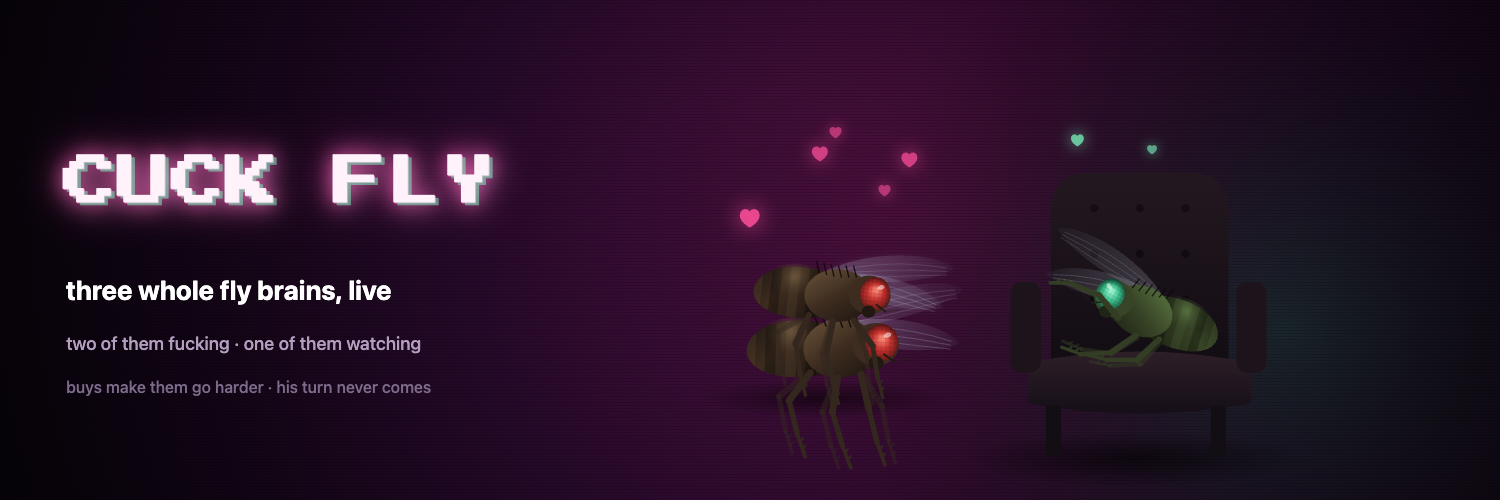
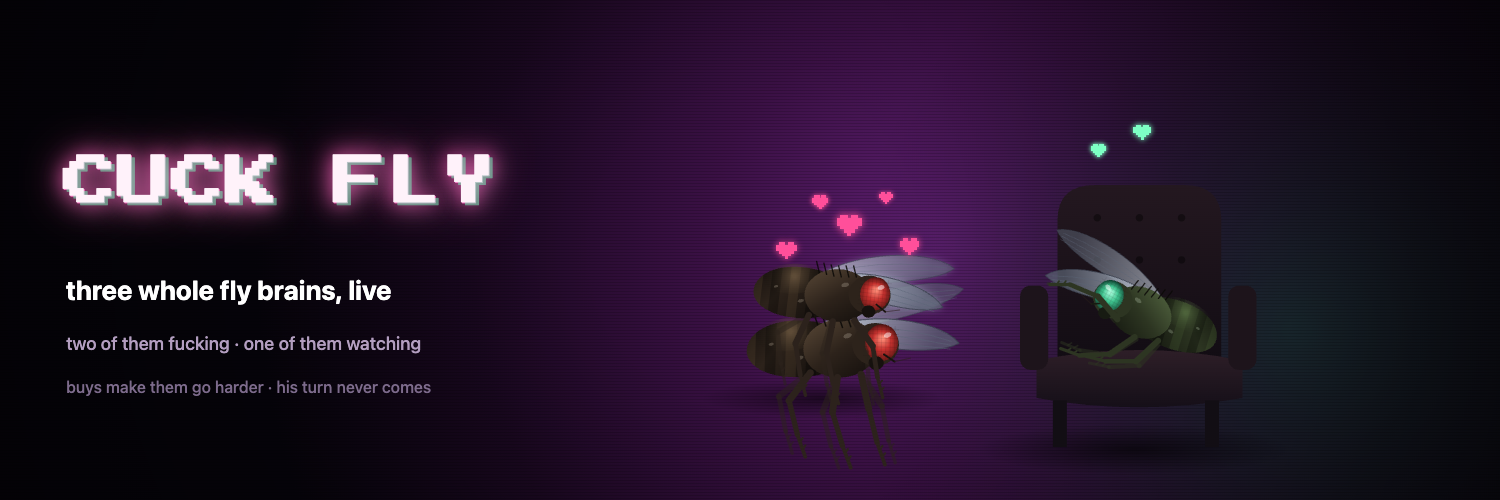
Graphics: match the SEX FLY visual language
Their avatar is a 3D-look render: matte near-black cuticle, opaque swept
silver wings, red compound eyes, 8-bit pixel hearts, violet radial ground.
Ported all of that into the shared fly renderer — pixel hearts replace the
glyph hearts on the site too — and reframed the avatar the way theirs is
framed: the couple filling the frame, with the one watching left as a
silhouette and a green eye in the corner.

Changed region(s): [[0.4907, 0.18, 0.7973, 0.87]]

diff --git a/tools/banner.html b/tools/banner.html
@@ -22,10 +22,11 @@ var TAU = 6.2831853;
 function bg(ctx, W, H, tilt) {
   ctx.fillStyle = '#05030a';
   ctx.fillRect(0, 0, W, H);
-  var g = ctx.createRadialGradient(W * 0.62, H * 0.42, 10, W * 0.62, H * 0.42, W * 0.72);
-  g.addColorStop(0, '#4a0f3c');
-  g.addColorStop(0.42, '#2a0a2e');
-  g.addColorStop(1, '#05030a');
+  var g = ctx.createRadialGradient(W * 0.63, H * 0.50, 8, W * 0.63, H * 0.52, W * 0.46);
+  g.addColorStop(0, '#5f1f72');
+  g.addColorStop(0.34, '#3a1044');
+  g.addColorStop(0.68, '#1a0820');
+  g.addColorStop(1, '#07040c');
   ctx.fillStyle = g; ctx.fillRect(0, 0, W, H);
   /* cold pool where the chair sits */
   var c = ctx.createRadialGradient(W * 0.86, H * 0.66, 6, W * 0.86, H * 0.66, W * 0.3);
@@ -42,21 +43,13 @@ function bg(ctx, W, H, tilt) {
   for (var y = 0; y < H; y += 3) ctx.fillRect(0, y, W, 1);
 }
 
+/* three pixel hearts in a loose arc, the way theirs sit over the couple */
 function hearts(ctx, x, y, s, n, col) {
-  ctx.save();
-  ctx.textAlign = 'center';
-  for (var i = 0; i < n; i++) {
-    var a = (i / n) * TAU + 0.7;
-    var hx = x + Math.cos(a) * s * (0.5 + (i % 3) * 0.25);
-    var hy = y - Math.abs(Math.sin(a)) * s * 0.9 - i * s * 0.1;
-    var sz = s * (0.16 + (i % 3) * 0.05);
-    ctx.font = sz + 'px system-ui, sans-serif';
-    ctx.shadowColor = col; ctx.shadowBlur = sz * 0.9;
-    ctx.fillStyle = col;
-    ctx.globalAlpha = 0.55 + (i % 3) * 0.15;
-    ctx.fillText('♥', hx, hy);
+  var lay = [[-0.62, 0.10, 0.030], [0.02, -0.16, 0.036], [0.64, 0.06, 0.028],
+             [-0.28, -0.40, 0.022], [0.40, -0.44, 0.020]];
+  for (var i = 0; i < n && i < lay.length; i++) {
+    FlyArt.pixelHeart(ctx, x + lay[i][0] * s, y + lay[i][1] * s, Math.max(1, s * lay[i][2]), col, true);
   }
-  ctx.restore();
 }
 
 /* couple + chair, positioned inside a box */
@@ -69,11 +62,11 @@ function scene(ctx, cx, cy, s, opts) {
     x: cx - s * 0.02, y: cy - s * 0.55, s: s * 0.9, phase: 1.9,
     tilt: 0.12, legLift: 0.55, wingBeat: 1.1
   });
-  hearts(ctx, cx + s * 0.15, cy - s * 1.0, s, 5, '#ff4f9a');
+  hearts(ctx, cx + s * 0.15, cy - s * 1.12, s, 5, '#ff4f9a');
 
   /* the chair, to the right */
   if (opts.chair !== false) {
-    var ox = cx + s * (opts.gap || 2.5), oy = cy + s * 0.08, cs = s * 1.3;
+    var ox = cx + s * (opts.gap || 2.5), oy = cy + s * 0.06, cs = s * 1.2;
     FlyArt.shadow(ctx, ox, oy + cs * 0.8, cs * 1.35, cs * 0.22, 0.6);
     FlyArt.drawChair(ctx, ox, oy, cs, 'rgba(125,255,196,.3)');
     FlyArt.drawFly(ctx, {
@@ -81,7 +74,7 @@ function scene(ctx, cx, cy, s, opts) {
       phase: 2.2, seated: 1, tilt: 0.3, headTilt: -0.2, tint: 0.6, flip: true
     });
     /* one green heart, cracked down the middle */
-    hearts(ctx, ox - cs * 0.1, oy - cs * 1.25, s * 0.8, 2, '#7dffc4');
+    hearts(ctx, ox + cs * 0.05, oy - cs * 1.82, s * 0.7, 2, '#7dffc4');
   }
 }
 
@@ -139,20 +132,40 @@ function drawOg() {
 
 function drawPfp() {
   var cv = document.getElementById('pfp'), ctx = cv.getContext('2d'), W = cv.width, H = cv.height;
+  /* violet ground, same family as the couple's own avatar */
   ctx.fillStyle = '#07040c'; ctx.fillRect(0, 0, W, H);
-  var g = ctx.createRadialGradient(W * 0.5, H * 0.45, 8, W * 0.5, H * 0.5, W * 0.7);
-  g.addColorStop(0, '#123a30'); g.addColorStop(0.5, '#16092a'); g.addColorStop(1, '#07040c');
+  var g = ctx.createRadialGradient(W * 0.46, H * 0.42, 8, W * 0.5, H * 0.5, W * 0.78);
+  g.addColorStop(0, '#7a2c93'); g.addColorStop(0.34, '#4c1557');
+  g.addColorStop(0.7, '#200a28'); g.addColorStop(1, '#07040c');
   ctx.fillStyle = g; ctx.fillRect(0, 0, W, H);
-  var s = H * 0.235, cs = s * 1.45;
-  FlyArt.shadow(ctx, W * 0.5, H * 0.60 + cs * 0.82, cs * 1.3, cs * 0.22, 0.6);
-  FlyArt.drawChair(ctx, W * 0.5, H * 0.60, cs, 'rgba(125,255,196,.35)');
+
+  /* the couple, big and cropped, exactly the framing of theirs */
+  var s = H * 0.30, gx = W * 0.40, gy = H * 0.62;
+  FlyArt.shadow(ctx, gx - s * 0.1, gy + s * 0.52, s * 1.2, s * 0.2, 0.5);
+  FlyArt.drawFly(ctx, { x: gx, y: gy, s: s, phase: 0.6, tilt: 0.03 });
   FlyArt.drawFly(ctx, {
-    x: W * 0.5 + cs * 0.12, y: H * 0.60 - cs * 0.36, s: s,
+    x: gx - s * 0.03, y: gy - s * 0.56, s: s * 0.9, phase: 1.9,
+    tilt: 0.12, legLift: 0.55, wingBeat: 1.1
+  });
+  hearts(ctx, gx + s * 0.1, gy - s * 1.24, s, 3, '#ff4f9a');
+
+  /* and the one watching: in the near corner, in shadow, green-eyed */
+  var cs = s * 0.82, cx = W * 0.90, cy = H * 0.94;
+  ctx.save();
+  ctx.globalAlpha = 0.5;                       /* the chair stays in the dark */
+  FlyArt.drawChair(ctx, cx, cy, cs, null);
+  ctx.restore();
+  var hg = ctx.createRadialGradient(cx - cs * 0.35, cy - cs * 0.45, 2, cx - cs * 0.35, cy - cs * 0.45, cs * 1.1);
+  hg.addColorStop(0, 'rgba(90,255,190,.3)'); hg.addColorStop(1, 'rgba(90,255,190,0)');
+  ctx.fillStyle = hg; ctx.fillRect(0, 0, W, H);
+  FlyArt.drawFly(ctx, {
+    x: cx + cs * 0.06, y: cy - cs * 0.36, s: s * 0.54,
     phase: 2.2, seated: 1, tilt: 0.3, headTilt: -0.22, tint: 0.6, flip: true
   });
-  /* vignette so the eye is the brightest thing in the circle */
-  var vg = ctx.createRadialGradient(W / 2, H / 2, H * 0.22, W / 2, H / 2, H * 0.62);
-  vg.addColorStop(0, 'rgba(0,0,0,0)'); vg.addColorStop(1, 'rgba(0,0,0,.8)');
+
+  /* vignette, so the two red eyes and the one green eye are what survives at 48px */
+  var vg = ctx.createRadialGradient(W / 2, H / 2, H * 0.26, W / 2, H / 2, H * 0.66);
+  vg.addColorStop(0, 'rgba(0,0,0,0)'); vg.addColorStop(1, 'rgba(0,0,0,.72)');
   ctx.fillStyle = vg; ctx.fillRect(0, 0, W, H);
   post('pfp', cv);
 }

diff --git a/js/flyart.js b/js/flyart.js
@@ -36,10 +36,10 @@
   function wing(ctx, x, y, s, ang, len, alpha, blur) {
     ctx.save();
     ctx.translate(x, y); ctx.rotate(ang);
-    var g = ctx.createLinearGradient(0, 0, len * s, 0);
-    g.addColorStop(0, 'rgba(208,216,230,' + (0.30 * alpha) + ')');
-    g.addColorStop(0.55, 'rgba(176,188,208,' + (0.17 * alpha) + ')');
-    g.addColorStop(1, 'rgba(150,164,190,' + (0.06 * alpha) + ')');
+    var g = ctx.createLinearGradient(0, -0.2 * s, len * s * 0.8, 0.12 * s);
+    g.addColorStop(0, 'rgba(206,212,222,' + (0.9 * alpha) + ')');
+    g.addColorStop(0.5, 'rgba(146,154,168,' + (0.82 * alpha) + ')');
+    g.addColorStop(1, 'rgba(92,100,116,' + (0.7 * alpha) + ')');
     ctx.fillStyle = g;
     ctx.beginPath();
     ctx.moveTo(0, 0);
@@ -49,8 +49,11 @@
     if (blur) { ctx.shadowColor = 'rgba(200,214,240,.45)'; ctx.shadowBlur = 7; }
     ctx.fill();
     ctx.shadowBlur = 0;
-    ctx.strokeStyle = 'rgba(226,234,248,' + (0.18 * alpha) + ')';
-    ctx.lineWidth = Math.max(0.5, s * 0.011);
+    ctx.strokeStyle = 'rgba(58,64,78,' + (0.75 * alpha) + ')';
+    ctx.lineWidth = Math.max(0.6, s * 0.012);
+    ctx.stroke();
+    ctx.strokeStyle = 'rgba(90,100,118,' + (0.5 * alpha) + ')';
+    ctx.lineWidth = Math.max(0.5, s * 0.009);
     for (var v = 0; v < 3; v++) {
       ctx.beginPath();
       ctx.moveTo(len * s * 0.06, -0.004 * s + v * 0.026 * s);
@@ -75,10 +78,10 @@
     ctx.scale(flip, 1);
 
     var hue = 24 + tint * 100;
-    var dark = 'hsl(' + hue + ',' + (30 - tint * 6) + '%,' + (10 + tint * 3) + '%)';
-    var mid = 'hsl(' + (hue + 2) + ',' + (32 - tint * 6) + '%,' + (18 + tint * 5) + '%)';
-    var lite = 'hsl(' + (hue + 6) + ',' + (30 - tint * 4) + '%,' + (30 + tint * 7) + '%)';
-    var legc = 'hsl(' + hue + ',26%,' + (16 + tint * 5) + '%)';
+    var dark = 'hsl(' + hue + ',' + (24 - tint * 4) + '%,' + (7 + tint * 3) + '%)';
+    var mid = 'hsl(' + (hue + 2) + ',' + (25 - tint * 4) + '%,' + (14 + tint * 5) + '%)';
+    var lite = 'hsl(' + (hue + 6) + ',' + (24 - tint * 3) + '%,' + (26 + tint * 7) + '%)';
+    var legc = 'hsl(' + hue + ',22%,' + (14 + tint * 5) + '%)';
 
     /* ---------- far legs ---------- */
     ctx.globalAlpha = alpha * 0.5;
@@ -121,11 +124,26 @@
     ctx.fillStyle = sh;
     ctx.beginPath(); ctx.ellipse(-0.44 * s, -0.15 * s, 0.36 * s, 0.17 * s, -0.15, 0, TAU); ctx.fill();
 
+    /* light patches on the cuticle, like the specular marks on the render */
+    ctx.globalAlpha = alpha * 0.34;
+    ctx.fillStyle = 'hsl(' + (hue + 12) + ',14%,' + (58 + tint * 8) + '%)';
+    var spots = [[-0.33, 0.09, 0.035, 0.019], [-0.63, -0.04, 0.026, 0.015], [-0.16, 0.17, 0.022, 0.013]];
+    for (var sp = 0; sp < spots.length; sp++) {
+      ctx.beginPath();
+      ctx.ellipse(spots[sp][0] * s, spots[sp][1] * s, spots[sp][2] * s, spots[sp][3] * s, -0.3, 0, TAU);
+      ctx.fill();
+    }
+    ctx.globalAlpha = alpha;
+
     /* ---------- thorax ---------- */
     var tg = ctx.createLinearGradient(-0.1 * s, -0.36 * s, 0.36 * s, 0.26 * s);
     tg.addColorStop(0, lite); tg.addColorStop(0.5, mid); tg.addColorStop(1, dark);
     ctx.fillStyle = tg;
     ctx.beginPath(); ctx.ellipse(0.08 * s, -0.02 * s, 0.38 * s, 0.30 * s, -0.1, 0, TAU); ctx.fill();
+    ctx.globalAlpha = alpha * 0.34;
+    ctx.fillStyle = 'hsl(' + (hue + 12) + ',14%,' + (62 + tint * 6) + '%)';
+    ctx.beginPath(); ctx.ellipse(0.15 * s, -0.15 * s, 0.045 * s, 0.024 * s, -0.35, 0, TAU); ctx.fill();
+    ctx.globalAlpha = alpha;
     ctx.strokeStyle = 'rgba(10,8,6,.85)';
     ctx.lineWidth = Math.max(0.6, s * 0.016);
     for (var i = 0; i < 6; i++) {
@@ -230,6 +248,29 @@
     ctx.restore();
   }
 
+  /* an 8-bit heart, drawn as blocks — the same shape their hearts use */
+  var HEART = [
+    '.XX.XX.',
+    'XXXXXXX',
+    'XXXXXXX',
+    '.XXXXX.',
+    '..XXX..',
+    '...X...'
+  ];
+  function pixelHeart(ctx, x, y, px, col, glow) {
+    ctx.save();
+    if (glow) { ctx.shadowColor = col; ctx.shadowBlur = px * 2.2; }
+    ctx.fillStyle = col;
+    for (var r = 0; r < HEART.length; r++) {
+      for (var c = 0; c < HEART[r].length; c++) {
+        if (HEART[r][c] !== 'X') continue;
+        ctx.fillRect(Math.round(x + (c - 3.5) * px), Math.round(y + (r - 3) * px),
+          Math.ceil(px), Math.ceil(px));
+      }
+    }
+    ctx.restore();
+  }
+
   function shadow(ctx, x, y, w, h, a) {
     var g = ctx.createRadialGradient(x, y, 1, x, y, w);
     g.addColorStop(0, 'rgba(0,0,0,' + (a || 0.55) + ')');
@@ -242,6 +283,7 @@
 
   root.FlyArt = {
     drawFly: drawFly, drawChair: drawChair, wing: wing, leg: leg, shadow: shadow,
+    pixelHeart: pixelHeart,
     EYE_RED: EYE_RED, EYE_GREEN: EYE_GREEN
   };
 })(typeof window !== 'undefined' ? window : this);

diff --git a/js/app.js b/js/app.js
@@ -282,7 +282,7 @@
       bctx.globalAlpha = clamp(p.l, 0, 1);
       if (p.k === 'sweat') { bctx.fillStyle = '#9fd8ff'; bctx.beginPath(); bctx.ellipse(p.x, p.y, 1.6, 2.6, 0, 0, 6.283); bctx.fill(); }
       else if (p.k === 'tear') { bctx.fillStyle = '#7dffc4'; bctx.beginPath(); bctx.ellipse(p.x, p.y, 1.5, 3, 0, 0, 6.283); bctx.fill(); }
-      else { bctx.fillStyle = '#ff4f9a'; bctx.font = '13px ' + getComputedStyle(document.body).fontFamily; bctx.fillText('♥', p.x, p.y); }
+      else FlyArt.pixelHeart(bctx, p.x, p.y, Math.max(1, s * 0.055), '#ff4f9a', true);
       bctx.globalAlpha = 1;
     }
 
